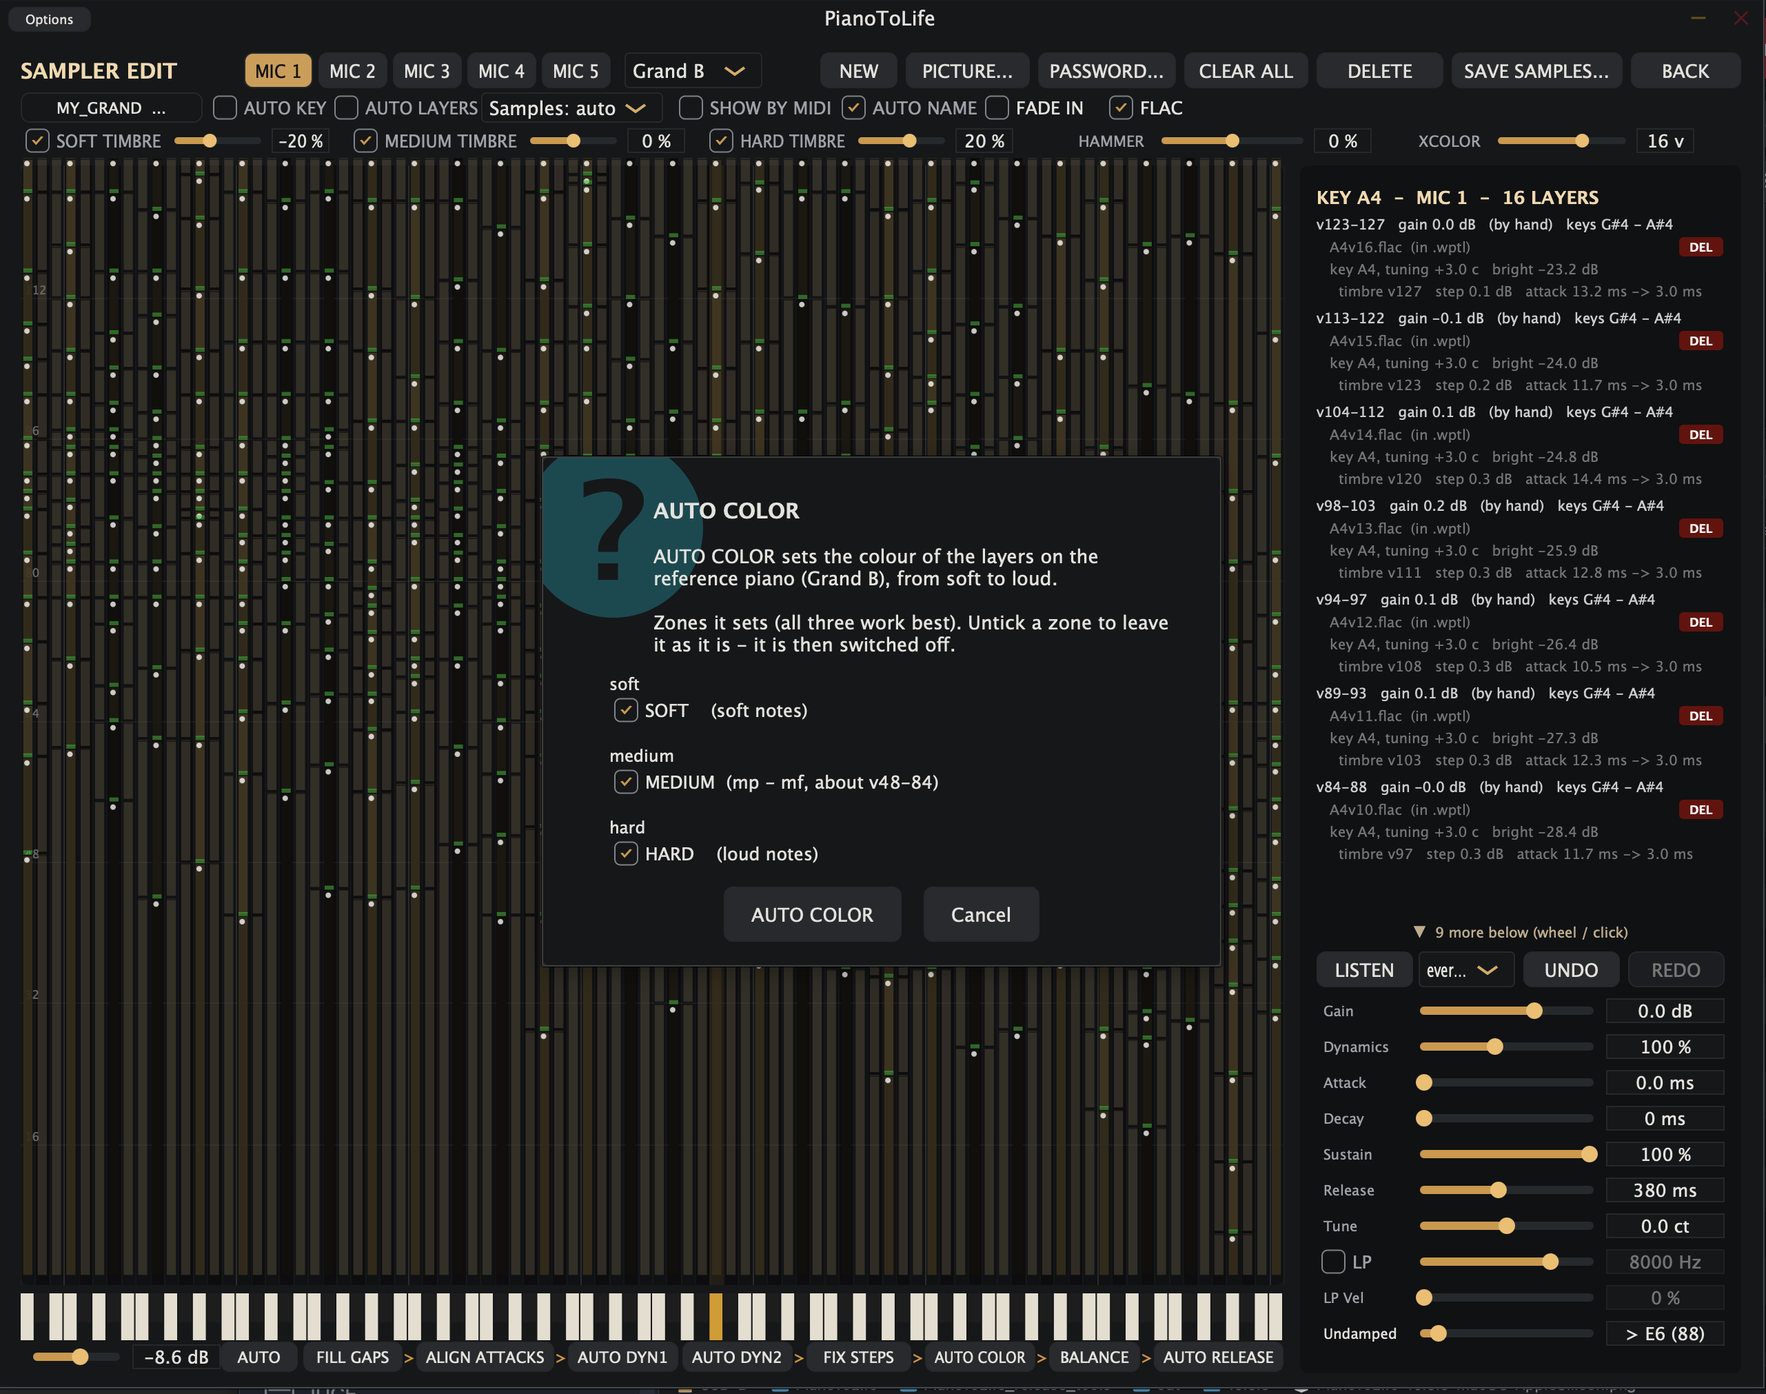
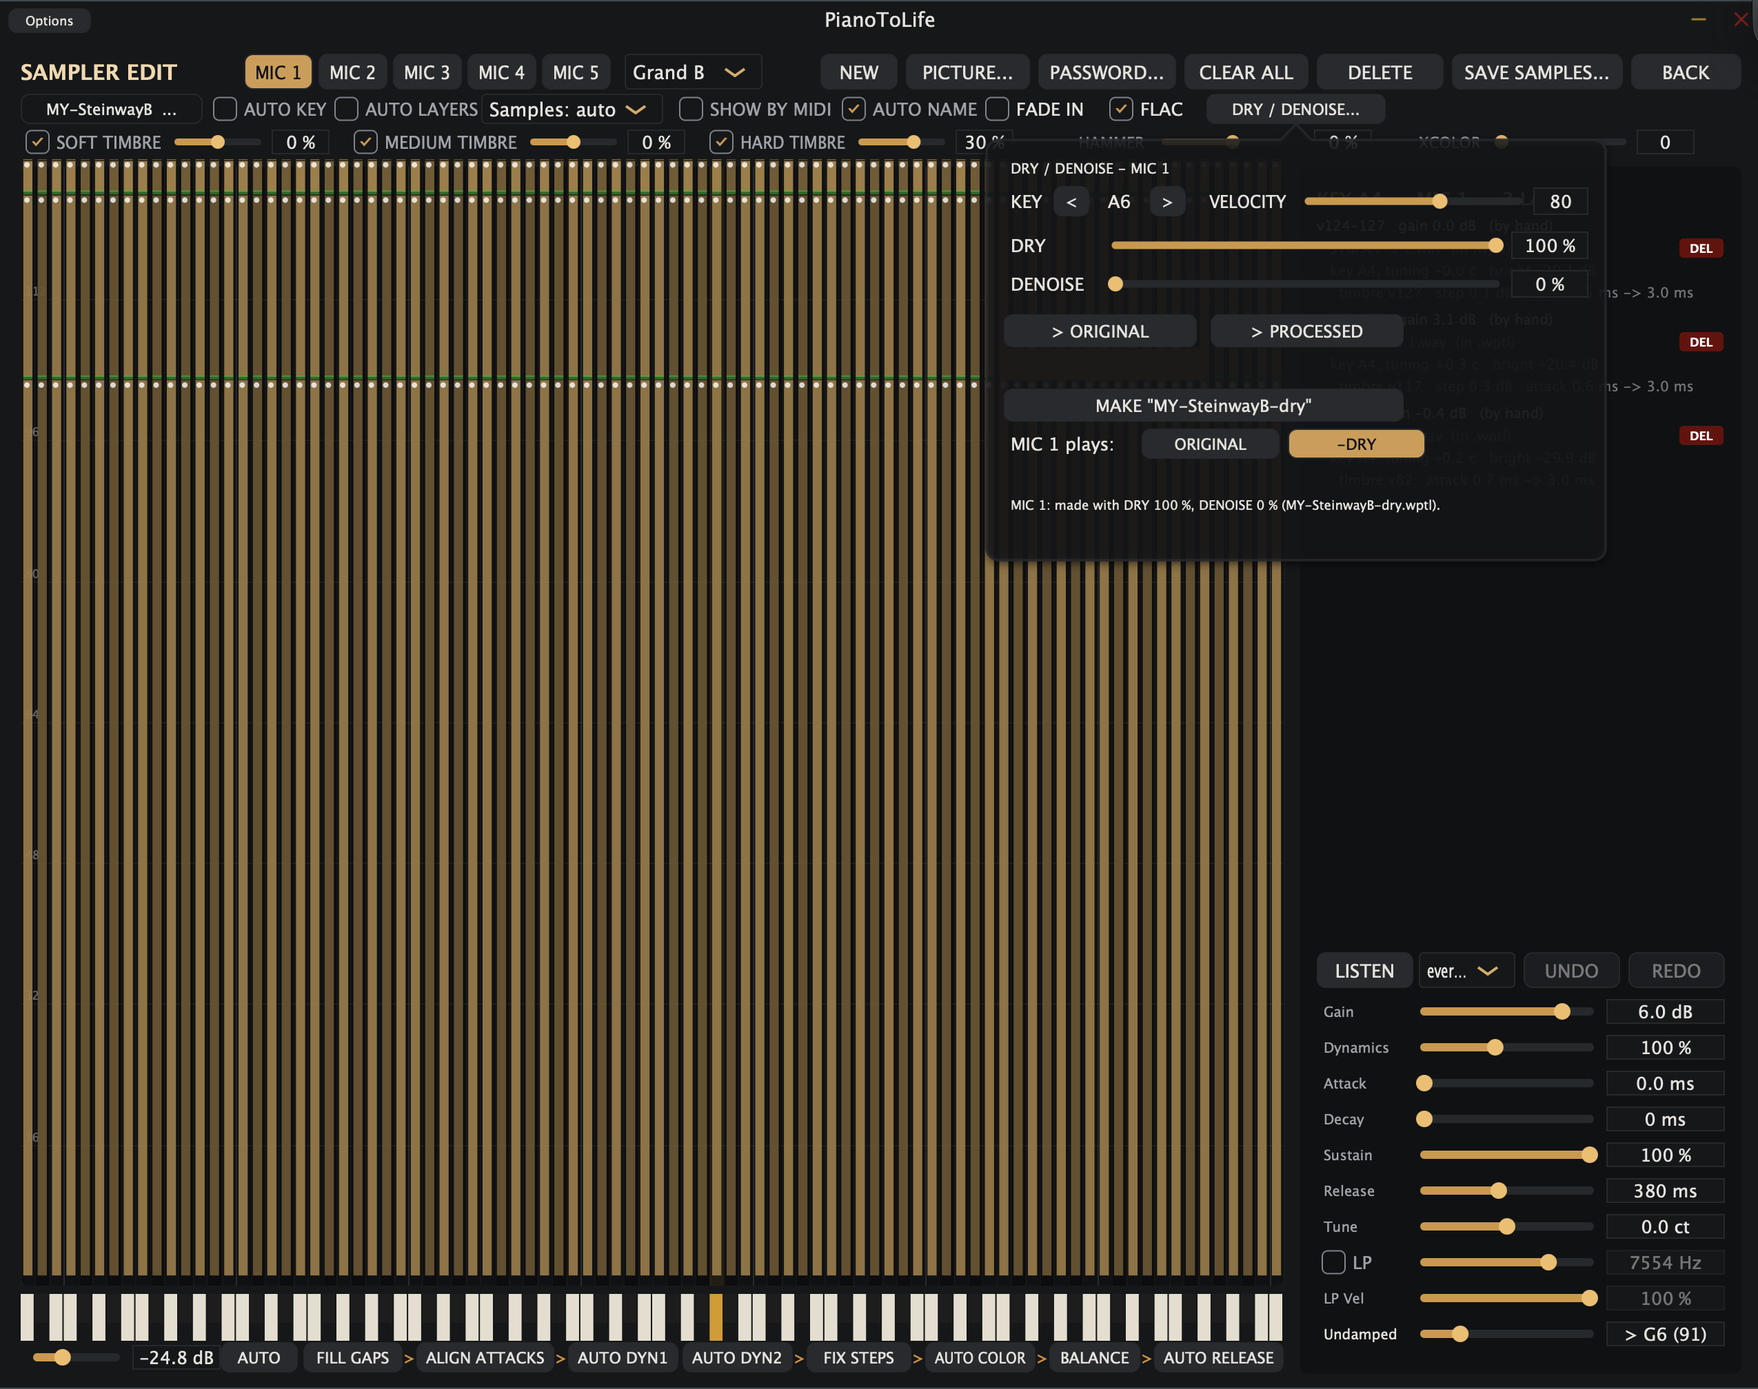
Add files via upload

diff --git a/MANUEL_SAMPLER.md b/MANUEL_SAMPLER.md
@@ -1,6 +1,6 @@
 # Sampler de PianoToLife — Manuel d'utilisation
 
-*Version 10.8.1 · [English version](SAMPLER_MANUAL.md) · Manuel général : [Manuel d'utilisation](MANUEL.md)*
+*Version 10.9.0 · [English version](SAMPLER_MANUAL.md) · Manuel général : [Manuel d'utilisation](MANUEL.md)*
 
 Le sampler intégré de PianoToLife joue **vos propres échantillons de piano**, avec tous les moteurs de PianoToLife
 par-dessus. Ce manuel explique comment transformer un dossier d'échantillons en piano jouable, ce que fait chaque
@@ -221,6 +221,13 @@ partie vide de la grille pour vider la sélection avant de travailler sur toutes
    plus seraient entassées sous v16 (un pp enregistré plus doux que ce que joue la référence), elles sont réparties
    régulièrement de v1 jusqu'à la première couche au-dessus, leurs gains calés sur la courbe de référence (Dynamics ne
    change pas ; le souffle d'une couche très douce monte avec son gain).
+   **RANGE** (10.9.0), dans la fenêtre AUTO DYN une fois l'analyse faite : la plage dynamique de tout le clavier,
+   **−10 à +10 dB** — comme entre un piano finement régulé et un piano moins égal (la régulation de la mécanique et
+   l'harmonisation des marteaux changent jusqu'où un piano joue doux et fort). **+** = plus large (v1 jusqu'à 10 dB plus
+   doux), **−** = plus serré (les notes douces plus fortes). v127 ne bouge pas et les couches jouées restent les mêmes :
+   seuls les niveaux changent, le long de la courbe de référence ; la courbe verte de la fenêtre suit. Rien n'est
+   réécouté ; un seul UNDO ; double-clic = 0. **Un nouvel AUTO DYN remet RANGE à 0** : réglez-le après l'analyse, puis
+   relancez AUTO COLOR.
 4. **FIX STEPS** — déplace les frontières orange et rouges vers la vélocité où les deux timbres se rejoignent,
    lissée sur les touches voisines. À lancer **après** AUTO DYN1 / DYN2 (ils replacent les frontières selon
    l'intensité).
@@ -229,7 +236,8 @@ partie vide de la grille pour vider la sélection avant de travailler sur toutes
    sur la référence ; seule la forme compte, un piano peut rester plus clair ou plus sombre dans l'ensemble). Depuis la
    10.6.3, il demande d'abord quelles zones régler : **SOFT, MEDIUM et HARD, toutes cochées par défaut** (elles
    marchent mieux ensemble) ; décochez une zone pour la laisser telle quelle — elle est alors éteinte, et sa case TIMBRE
-   de la rangée suit. HAMMER n'est jamais touché. À relancer après un AUTO DYN. UNDO remet les curseurs.
+   de la rangée suit. HAMMER n'est jamais touché. À relancer après un AUTO DYN. UNDO remet les curseurs. Depuis la 10.9.0, il suit **RANGE** : une vélocité rendue
+   plus douce vise une couleur plus sombre, une plus forte une couleur plus claire, comme sur un vrai piano.
 6. **BALANCE** — égalise le volume d'une touche à l'autre, mesuré à la vélocité 127 (les couches de chaque touche
    suivent).
    - **Smooth** : la courbe propre du set, sans les sauts (l'équilibre grave-aigu de l'enregistrement est gardé).
@@ -248,6 +256,51 @@ partie vide de la grille pour vider la sélection avant de travailler sur toutes
    relâchement). De préférence à la fin. C'est le vrai niveau de l'instrument : VOL (près du Ceiling) n'est qu'un
    volume d'écoute et revient à 0 dB à chaque changement d'instrument ; réglez donc le niveau ici, et tous vos
    instruments restent cohérents.
+
+### Retirer la salle des échantillons : DRY / DENOISE (10.9.0)
+
+Issu de nos recherches sur la modélisation d'enregistrements de vrais pianos. Un piano enregistré dans une salle qui
+sonne trop — ou qui ne convient pas à votre musique — garde cette salle dans chaque échantillon. **DRY** la retire,
+pour que vous placiez le piano dans la salle de votre choix avec l'**Ambience** : une seule salle propre pour tout ce
+que PianoToLife joue et ajoute.
+
+**Comment ça marche.** Pour chaque échantillon, PianoToLife trouve les harmoniques de la note sur l'échantillon
+lui-même (dans le grave à partir de l'écart des harmoniques fortes, la fondamentale des notes les plus graves étant très
+faible sur tous les pianos ; dans l'aigu avec une recherche élargie, l'accord étant étiré). Il garde le contenu réel de
+chaque harmonique — battements des cordes du chœur compris — et retire ce qu'il y a entre elles : la salle, le souffle,
+une partie du corps. **La frappe reste l'originale** : DRY attend que le choc, la caisse et les cordes voisines soient
+retombés juste au-dessus de la salle (80 à 600 ms, mesuré sur chaque échantillon), puis arrive progressivement.
+**100 % est sans risque**.
+
+**DENOISE** est léger et prudent : le souffle est mesuré sur chaque échantillon et baissé de 12 dB au plus, lissé dans
+le temps pour ne jamais « gazouiller ».
+
+**Le bouton DRY / DENOISE...** (deuxième rangée d'EDIT, après FLAC) ouvre le panneau du **micro sélectionné** en haut :
+
+1. **Écoutez d'abord.** Choisissez une **KEY** (touche) et une **VELOCITY**, puis comparez **> ORIGINAL** et
+   **> PROCESSED** (le même bouton une deuxième fois arrête). **A6** par défaut : **c'est dans l'aigu que la salle
+   s'entend le plus facilement**, là où les harmoniques sont rares et les notes courtes (sans échantillons de
+   relâchement, la fin d'une note aiguë, c'est surtout la salle). Avec **SHOW BY MIDI** coché, la touche que vous jouez
+   (et sa vélocité) est choisie. L'échantillon s'entend tel quel, sans l'Ambience.
+2. **MAKE "<nom>-dry"** traite tous les échantillons du micro dans un conteneur séparé, à côté de l'original,
+   `<nom>-dry.wptl` (même chiffrement, même mot de passe). En arrière-plan, avec la barre de progression et le STOP de
+   SAVE SAMPLES. **Les échantillons d'origine ne sont jamais modifiés**, et MAKE repart toujours d'eux (jamais de
+   « dry sur dry »). Les autres micros déjà traités y sont gardés.
+3. **MIC n plays: ORIGINAL / -DRY** — choisissez, micro par micro, quels échantillons sont joués. Gardé dans
+   l'instrument et le preset.
+4. **Refaites ensuite une capture du Piano Model (.srpiano), puis relancez les AUTO CAL de Resonance et d'Ambience** :
+   ils avaient été mesurés sur le son avec sa salle. L'AUTO CAL de l'Ambience ne trouve alors plus de salle et règle la
+   Room sur **Small** : choisissez la salle voulue (une Ambience légère suffit souvent à un piano rendu sec).
+
+**Formats.** Les échantillons d'origine restent exactement tels qu'enregistrés. Les échantillons -dry sont toujours en
+**FLAC 24 bits** (sans perte), à la fréquence de l'original, même quand les originaux sont en 16 bits : une fois la
+salle et le souffle retirés, les fins de notes descendent sous le plancher du 16 bits (−96 dB), et seul le 24 bits les
+garde propres. Un -dry fait à partir d'échantillons 16 bits est donc plus gros que le conteneur d'origine (environ le
+double) ; le message de MAKE affiche les deux tailles.
+
+**Sécurité.** Si le fichier -dry est déplacé ou supprimé, ou qu'il lui manque un échantillon, l'original est joué (le
+panneau le dit) ; le choix -DRY reste et revient avec le fichier. Un `<nom>-dry.wptl` à côté du `.wptl` est retrouvé
+tout seul. Les instruments sauvés en 10.9.0 s'ouvrent dans les versions précédentes avec leurs échantillons d'origine.
 
 ---
 
@@ -366,6 +419,7 @@ pour vérifier un set. **LEVEL TEST** : joue A0, C2, C4, C6 et C8 à la vélocit
 |---|---|
 | `.ptlset` | **L'instrument** (comme un `.nki` Kontakt) : le mapping tel que vous l'entendez (vélocités, gains, réglages des touches, AUTO DYN, BALANCE...), le modèle de résonance et tous les réglages de PianoToLife. Toujours dans le dossier de son `.wptl`, qu'il désigne en relatif |
 | `.wptl` | **Les échantillons** (comme un `.nkx` Kontakt), dans un conteneur chiffré (mot de passe si défini), avec l'image de la banque |
+| `<nom>-dry.wptl` | **Les échantillons sans leur salle** (10.9.0, faits par DRY / DENOISE) : même chiffrement, FLAC 24 bits, à côté du `.wptl`. Facultatif : sans lui, les échantillons d'origine sont joués |
 
 Depuis la 10.6.0, un piano échantillonné, ce sont **deux fichiers : le `.ptlset` et le `.wptl`**, dans le même dossier
 de votre bibliothèque. En mode SAMPLER, **la liste PRESET affiche les instruments de votre bibliothèque** et le nom de

diff --git a/SAMPLER_MANUAL.md b/SAMPLER_MANUAL.md
@@ -1,6 +1,6 @@
 # PianoToLife Sampler — User Manual
 
-*Version 10.8.1 · [Version française](MANUEL_SAMPLER.md) · General manual: [User Manual](USER_MANUAL.md)*
+*Version 10.9.0 · [Version française](MANUEL_SAMPLER.md) · General manual: [User Manual](USER_MANUAL.md)*
 
 PianoToLife's built-in sampler plays **your own piano samples** with all of PianoToLife's engines on top of
 them. This manual explains how to turn a folder of samples into a playable piano, what every button does, and
@@ -209,6 +209,12 @@ a selection before working on every key.
    they are played, and when two or more soft layers would be piled under v16 (a pp recorded softer than the reference
    ever plays) they are spread evenly from v1 up to the first layer above, their gains set on the reference curve
    (Dynamics is not changed; a very soft layer's noise comes up with its gain).
+   **RANGE** (10.9.0), in the AUTO DYN window once the analysis is done: the dynamic range of the whole keyboard,
+   **−10 to +10 dB** — as between a finely regulated piano and a less even one (the regulation of the action and the
+   voicing of the hammers change how soft and how loud a piano can play). **+** = wider (v1 up to 10 dB softer),
+   **−** = narrower (the soft notes louder). v127 does not move and the layers played stay the same: only the levels
+   change, along the reference curve; the green curve of the window follows. Nothing is listened to again; one UNDO;
+   double-click = 0. **A new AUTO DYN puts RANGE back to 0**: set it after the analysis, then run AUTO COLOR again.
 4. **FIX STEPS** — moves the orange / red boundaries to the velocity where the two timbres meet, smoothed over the
    neighbouring keys. Run it **after** AUTO DYN1 / DYN2 (they place the boundaries by loudness again).
 5. **AUTO COLOR** (10.5.1) — sets SOFT, MEDIUM (10.6.3) and HARD COLOR so that the brightness of the layers follows
@@ -216,7 +222,8 @@ a selection before working on every key.
    as on the reference; only the shape counts, a piano may stay brighter or darker overall). Since 10.6.3 it first asks
    which zones to set: **SOFT, MEDIUM and HARD, all ticked by default** (they work best together); untick a zone to
    leave it as it is — it is then switched off, and its TIMBRE box in the row follows. HAMMER is never touched. Run it
-   again after AUTO DYN. UNDO puts the sliders back.
+   again after AUTO DYN. UNDO puts the sliders back. Since 10.9.0 it follows **RANGE**: a velocity made softer is aimed
+   at a darker colour, a louder one at a brighter colour, as on a real piano.
 6. **BALANCE** — evens out the volume from one key to the next, measured at velocity 127 (each key's layers follow).
    - **Smooth**: the set's own curve without the jumps (the register balance of the recording is kept).
    - **Grand D / Grand B / Upright**: the bass-to-treble balance of a reference piano, at your set's level.
@@ -231,6 +238,48 @@ a selection before working on every key.
    note at velocity 127 peak at −9 dBFS (room for chords, resonance and release). Best done at the end. This is the
    instrument's real level: VOL (by the Ceiling) is only a listening volume and goes back to 0 dB at each instrument
    change, so set the level here and all your instruments stay coherent.
+
+### Taking the room out of the samples: DRY / DENOISE (10.9.0)
+
+Born from our research on modelling recordings of real pianos. A piano recorded in a room that rings too much — or that
+does not suit your music — keeps that room in every sample. **DRY** takes it out, so that you can put the piano in the
+room you choose with the **Ambience**: one clean room for everything PianoToLife plays and adds.
+
+**How it works.** For each sample, PianoToLife finds the partials of the note on the sample itself (in the bass from the
+spacing of the strong partials, the fundamental of the lowest notes being very weak on every piano; in the treble
+with a wider search, the tuning being stretched). It keeps the real content of each partial — the beating of the
+unison strings included — and takes out what lies between them: the room, the hiss, part of the body. **The strike
+stays the original**: DRY waits until the knock, the case and the neighbouring strings have faded to just above the
+room (80 to 600 ms, measured on each sample), then comes in gradually. **100 % is safe**.
+
+**DENOISE** is light and careful: the hiss is measured on each sample and lowered by 12 dB at most, smoothed in time so
+that it never warbles.
+
+**The DRY / DENOISE... button** (second row of EDIT, after FLAC) opens the panel for the **microphone selected** at the
+top:
+
+1. **Listen first.** Choose a **KEY** and a **VELOCITY**, then compare **> ORIGINAL** and **> PROCESSED** (the same
+   button again stops). **A6** by default: **the room is easiest to hear in the treble**, where the partials are few
+   and the notes short (with no release samples, the end of a treble note is mostly the room). With **SHOW BY MIDI**
+   ticked, the key you play (and its velocity) is chosen. The sample is heard as it is, without the Ambience.
+2. **MAKE "<name>-dry"** processes every sample of the microphone into a separate container beside the original one,
+   `<name>-dry.wptl` (same encryption and password). In the background, with the progress bar and STOP of SAVE
+   SAMPLES. **The original samples are never touched**, and MAKE always starts again from them (never dry on dry).
+   Other microphones already made there are kept.
+3. **MIC n plays: ORIGINAL / -DRY** — choose, microphone by microphone, which samples are played. Saved with the
+   instrument and the preset.
+4. **Then make a new Piano Model capture (.srpiano), and run AUTO CAL of Resonance and of Ambience again**: they were
+   measured on the sound with its room. The Ambience AUTO CAL then finds no room and sets Room **Small**: choose the
+   room you want (a light Ambience is often all a dry piano needs).
+
+**Formats.** The original samples stay exactly as recorded. The -dry samples are always **24-bit FLAC** (lossless), at
+the original's sample rate, even when the originals are 16-bit: once the room and the hiss are taken out, the tails of
+the notes go below the 16-bit floor (−96 dB), and only 24 bits keep them clean. A -dry made from 16-bit samples is
+therefore larger than the original container (about twice); MAKE's message shows both sizes.
+
+**Safety.** If the -dry file is moved or deleted, or a sample is missing in it, the original is played (the panel says
+so); the -DRY choice is kept and comes back with the file. A `<name>-dry.wptl` beside the `.wptl` is found on its own.
+Instruments saved with 10.9.0 open in older versions with their original samples.
 
 ---
 
@@ -348,6 +397,7 @@ check a set.  **LEVEL TEST**: plays A0, C2, C4, C6, C8 at velocity 127 and tells
 |---|---|
 | `.ptlset` | **The instrument** (like a Kontakt `.nki`): the mapping as you hear it (velocities, gains, key settings, AUTO DYN, BALANCE...), the resonance model and every PianoToLife setting. Always in the folder of its `.wptl`, which it names relatively |
 | `.wptl` | **The samples** (like a Kontakt `.nkx`), in an encrypted container (password if set), with the bank's picture |
+| `<name>-dry.wptl` | **The samples without their room** (10.9.0, made by DRY / DENOISE): same encryption, 24-bit FLAC, beside the `.wptl`. Optional: without it, the original samples play |
 
 Since 10.6.0 a sampled piano is **two files: the `.ptlset` and the `.wptl`**, in the same folder of your library. In
 SAMPLER mode the **PRESET list shows the instruments of your library** and the instrument's name is shown large above it;

diff --git a/MANUEL.md b/MANUEL.md
@@ -1,6 +1,6 @@
 # PianoToLife — Manuel d'utilisation
 
-*Version 10.8.1 · [English version](USER_MANUAL.md) · Mapping du sampler : [Manuel du sampler](MANUEL_SAMPLER.md)*
+*Version 10.9.0 · [English version](USER_MANUAL.md) · Mapping du sampler : [Manuel du sampler](MANUEL_SAMPLER.md)*
 
 PianoToLife fait **se comporter un piano virtuel comme un vrai** : les cordes qui résonnent par sympathie, la pédale
 de sustain et la demi-pédale, les étouffoirs, le relâchement, l'una corda, les bruits de la mécanique. Ce manuel
@@ -360,7 +360,9 @@ s'entend souvent tout de suite : la salle du piano se révèle, au lieu d'être 
 - **Le niveau trouvé s'affiche dans la Room** (par exemple *Auto +3 dB*). Le curseur Ambience reste un réglage fin
   autour : baissez-le de quelques points si vous trouvez la salle trop présente — souvent le cas avec des relâchements
   très propres.
-- **Un piano très sec** (micros proches ou fermés) : aucune salle n'est trouvée, la Room passe sur **Small**.
+- **Un piano très sec** (micros proches ou fermés) : aucune salle n'est trouvée, la Room passe sur **Small**. De même
+  pour un piano échantillonné dont la salle a été retirée avec **DRY / DENOISE** (SAMPLER, 10.9.0) : choisissez la salle
+  voulue — voir le [Manuel du sampler](MANUEL_SAMPLER.md).
 - ***The notes did not fully agree*** : les notes mesurées ne s'accordent pas toutes (vieil enregistrement, souffle...) :
   le résultat reste utilisable, vérifiez-le à l'oreille.
 - **Après une capture du Piano Model**, PianoToLife propose d'enchaîner les deux AUTO CAL : le niveau de résonance,

diff --git a/USER_MANUAL.md b/USER_MANUAL.md
@@ -1,6 +1,6 @@
 # PianoToLife — User Manual
 
-*Version 10.8.1 · [Version française](MANUEL.md) · Sampler mapping: [Sampler Manual](SAMPLER_MANUAL.md)*
+*Version 10.9.0 · [Version française](MANUEL.md) · Sampler mapping: [Sampler Manual](SAMPLER_MANUAL.md)*
 
 PianoToLife makes a virtual piano **behave like a real one**: the strings that ring in sympathy, the sustain pedal
 and half pedal, the dampers, the release, the una corda, the noises of the mechanism. This manual explains how it
@@ -338,7 +338,9 @@ once: the piano's room comes out, instead of being masked.
   the standalone, about 25 s in a DAW; don't play meanwhile. The button stays lit once the piano was analysed.
 - **The level found is shown in the Room** (e.g. *Auto +3 dB*). The Ambience slider still sets more or less around
   it: lower it a little if you find the room too present — often the case with very clean releases.
-- **A very dry piano** (close or closed microphones): no room is found, the Room is set to **Small**.
+- **A very dry piano** (close or closed microphones): no room is found, the Room is set to **Small**. The same for a
+  sampled piano whose room was taken out with **DRY / DENOISE** (SAMPLER, 10.9.0): choose the room you want — see the
+  [Sampler Manual](SAMPLER_MANUAL.md).
 - ***The notes did not fully agree***: the measured notes differ (an old recording, tape hiss...): the result is
   usable, check it by ear.
 - **After a Piano Model capture**, PianoToLife offers both AUTO CALs in a row: the resonance level, then the room.
